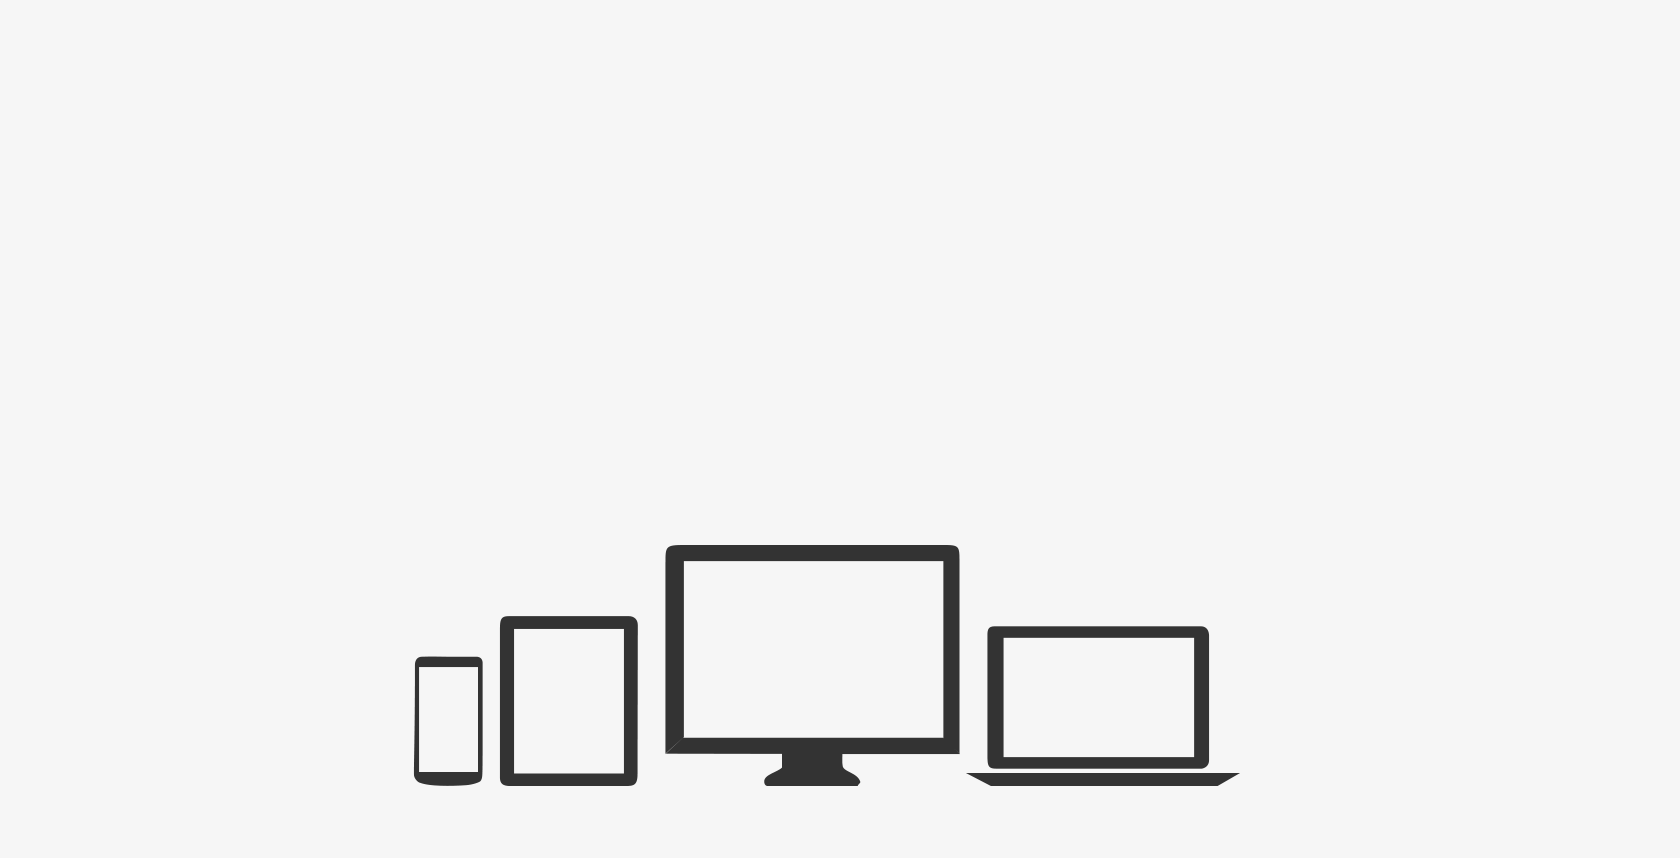
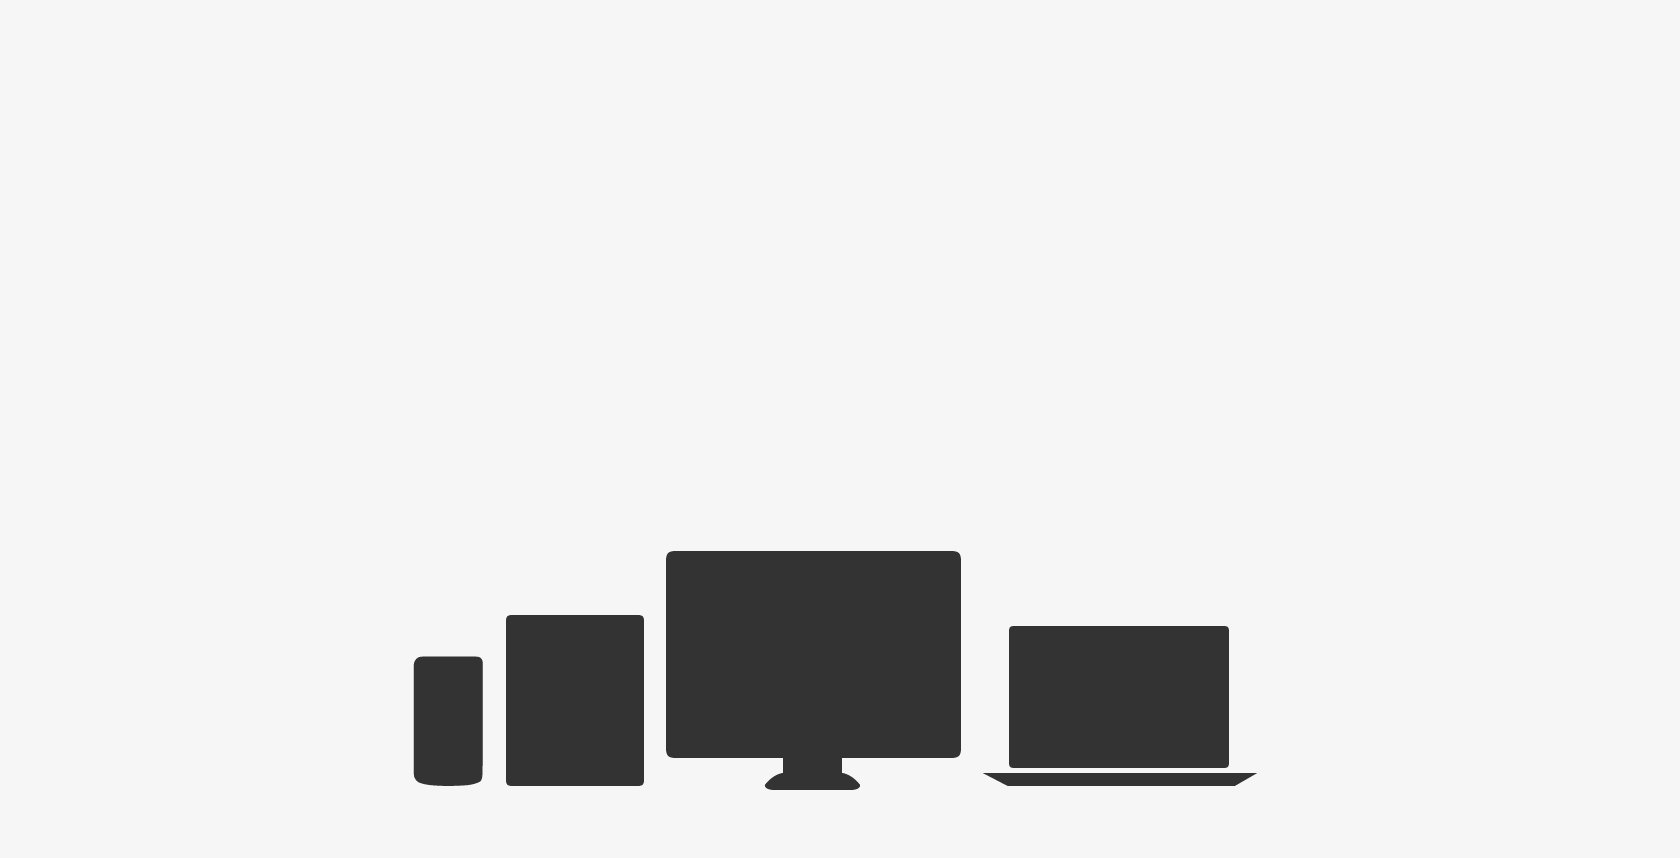
New device-frame  directive

Changed region(s): [[0.2476, 0.6364, 0.7429, 0.9091], [0.4643, 0.9091, 0.4952, 0.9394]]

diff --git a/app/views/home.html b/app/views/home.html
@@ -53,7 +53,39 @@
 
                         <p>   By now, I'm studying Node.js servers and Android native development, with Java and material design, just for fun. ;)</p>
 
-                        <p>   I'm still learning and getting evolved with open source, but, why not to follow me at <a href ng-href="https://github.com/romulobordezani" target="_BLANK" >github</a>? </p>
+                        <p>   I'm still learning and getting evolved with open source, but, why not to follow me at <a href ng-href="https://github.com/romulobordezani" target="_BLANK" ><img src="images/socials/ico-github.svg" style="width:15px;height:15px;vertical-align: middle;" /> github</a>? </p>
+
+                        <p>
+
+                            <h3 class="md-title">Skills:</h3>
+
+                            <div layout >
+                                <div flex="10" layout layout-align="center center"><span class="md-body-1">Java Script</span></div>
+                                <md-slider flex class="md-warn" ng-disabled="true" md-discrete ng-model="js" ng-init="js=9"  max="10" aria-label="Java Script" ></md-slider>
+                            </div>
+
+                            <div layout >
+                                <div flex="10" layout layout-align="center center"><span class="md-body-1">HTML5</span></div>
+                                <md-slider flex class="md-warn" ng-disabled="true" md-discrete ng-model="html5" ng-init="html5=9"  max="10" aria-label="html5" ></md-slider>
+                            </div>
+
+                            <div layout >
+                                <div flex="10" layout layout-align="center center"><span class="md-body-1">CSS3</span></div>
+                                <md-slider flex class="md-warn" ng-disabled="true" md-discrete ng-model="css3" ng-init="css3=9"  max="10" aria-label="css3" ></md-slider>
+                            </div>
+
+                            <div layout >
+                                <div flex="10" layout layout-align="center center"><span class="md-body-1">Mongo</span></div>
+                                <md-slider flex class="md-warn" ng-disabled="true" md-discrete ng-model="mongo" ng-init="mongo=7"  max="10" aria-label="Mongo" ></md-slider>
+                            </div>
+
+                            <div layout >
+                                <div flex="10" layout layout-align="center center"><span class="md-body-1">PHP</span></div>
+                                <md-slider flex class="md-warn" ng-disabled="true" md-discrete ng-model="php" ng-init="php=5"  max="10" aria-label="PHP" ></md-slider>
+                            </div>
+
+
+                        </p>
 
                     </md-content>
                 </md-tab>
@@ -241,13 +273,17 @@
 
         <div class="content-splitter" hide-gt-md style="margin-top: 43px;" ></div>
 
-        <div layout="column" layout-sm="row" layout-md="row" flex="60" flex-sm="100" flex-md="100" >
+        <div layout="column" layout-sm="row" layout-md="row" flex="50" flex-sm="100" flex-md="100" >
 
             <div id="third-featured-item" layout="row" flex layout-wrap layout-fill class="md-padding" clickable clickable-url="#/contact" >
 
                 <div layout="column" layout-sm="row" layout-align="center start" layout-align-sm="center center" layout-align-md="center center" flex="20" flex-sm="100" flex-md="33" >
                     <img src="images/home/girl.jpg" class="md-avatar" />
                 </div>
+
+
+                <div flex="5"></div>
+
 
                 <div layout="column" layout-sm="row" layout-align="center start" layout-wrap class="md-padding" flex="50" flex-sm="100"  flex-md="66" >
                     <h4 class="md-title" layout-fill >Mobile first  matters </h4>

diff --git a/app/views/work/2015/03.html b/app/views/work/2015/03.html
@@ -24,68 +24,17 @@
 
             <div class="work-spacer" ></div>
 
-            <div layout="row" layout-fill layout-wrap >
+            <div layout="row" layout-wrap layout-fill layout-align="center end" >
 
-                <md-card class="noselect no-pointer"  layout="column" flex >
-                    <img src="../../../images/work/2015/1/sac-bol-1.png" class="md-card-image md-whiteframe-z1 " >
-                    <div class="md-actions" layout="row" layout-align="end center">
-                        <md-button class="md-warn md-default-theme"  ng-href="https://sac.bol.uol.com.br/" target="_blank" >Go to</md-button>
-                    </div>
-                </md-card>
+                <device-frame href="testehttps" size="lg" src="../../../images/work/2015/1/sac-bol-3.png" ></device-frame>
 
-                <md-card class="noselect no-pointer"  layout="column" flex >
-                    <img src="../../../images/work/2015/1/sac-bol-2.png" class="md-card-image md-whiteframe-z1 " >
-                    <div class="md-actions" layout="row" layout-align="end center">
-                        <md-button class="md-warn md-default-theme"  ng-href="https://sac.bol.uol.com.br/#/login" target="_blank" >Go to</md-button>
-                    </div>
-                </md-card>
+                <device-frame href="https://sac.uol.com.br" size="gt-lg" src="../../../images/work/2015/1/sac-bol-2.png"  ></device-frame>
 
-                <md-card class="noselect no-pointer"  layout="column" flex >
-                    <img src="../../../images/work/2015/1/sac-bol-3.png" class="md-card-image md-whiteframe-z1 " >
-                    <div class="md-actions" layout="row" layout-align="end center">
-                        <md-button class="md-warn md-default-theme"  ng-href="https://sac.bol.uol.com.br/#/recuperarsenha" target="_blank" >Go to</md-button>
-                    </div>
-                </md-card>
+                <device-frame href="testehttps" size="md" src="../../../images/work/2015/1/sac-bol-2.png"  ></device-frame>
+
+                <device-frame href="testehttps" size="sm" src="../../../images/work/2015/1/sac-bol-1.png"  ></device-frame>
 
             </div>
-
-
-            <div>
-                <div style="background: url('images/uis/device-lg.svg') no-repeat; width: 350px; height: 350px; " >
-                    <div style="background-color: #689F38; position: relative; width: 191px; height: 121px; left: 37px; top: 11px;">
-
-                    </div>
-                </div>
-            </div>
-
-
-            <div>
-                <div style="background: url('images/uis/device-gt-lg.svg') no-repeat; width: 350px; height: 350px; " >
-                    <div style="background-color: #689F38; position: relative; width: 191px; height: 121px; left: 37px; top: 11px;">
-
-                    </div>
-                </div>
-            </div>
-
-
-            <div>
-                <div style="background: url('images/uis/device-sm.svg') no-repeat; width: 350px; height: 350px; " >
-                    <div style="background-color: #689F38; position: relative; width: 191px; height: 121px; left: 37px; top: 11px;">
-
-                    </div>
-                </div>
-            </div>
-
-
-            <div>
-                <div style="background: url('images/uis/device-md.svg') no-repeat; width: 350px; height: 350px; " >
-                    <div style="background-color: #689F38; position: relative; width: 191px; height: 121px; left: 37px; top: 11px;">
-
-                    </div>
-                </div>
-            </div>
-
-
 
         </div>
 

diff --git a/app/styles/directives/device-frame.directive.scss b/app/styles/directives/device-frame.directive.scss
@@ -1,0 +1,166 @@
+@import '../libs/colors.scss';
+@import '../libs/measures.scss';
+
+.device-frame{
+
+    height: 300px;
+    margin: 0 33px;
+
+    a{
+        position: relative;
+        display: block;
+
+        &:before{
+
+            content : ' ';
+            position: absolute;
+            top: 0px;
+            left: 0px;
+            z-index: 2000;
+            background-image: url('../images/uis/ic_launch_24px.svg');
+            background-size: 46px 46px;
+            background-repeat : no-repeat;
+            background-position: center;
+            background-color: #333333;
+            display: none;
+            height: 121px;
+            width: 200px;
+            opacity: 1;
+
+        }
+
+        &:hover{
+
+            &:before{
+                display: block;
+                opacity: 0.7;
+            }
+
+        }
+
+        img {
+            position: absolute;
+        }
+
+    }
+
+
+    .df-sm{
+
+        background: transparent url('../images/uis/device-sm.svg') no-repeat top center ;
+        background-size: contain;
+        width: 69px;
+        height: 129px;
+
+
+        a.df-sm-screen{
+
+            width: 60px;
+            height: 107px;
+            margin: 7px auto 0;
+
+            img{
+                position: absolute;
+                max-width: 60px;
+                height: 107px;
+                clip: rect(0px, 60px, 107px, 0px);
+            }
+
+            &:before{
+                width: 60px;
+                height: 107px;
+            }
+
+        }
+
+    }
+
+    .df-md{
+
+        background: transparent url('../images/uis/device-md.svg') no-repeat top center ;
+        background-size: contain;
+        width: 138px;
+        height: 171px;
+
+        a.df-md-screen{
+
+            width: 120px;
+            height: 251px;
+            margin: 10px auto 0;
+
+            img{
+                position: absolute;
+                width: auto;
+                height: 250px;
+                clip: rect(0px, 120px, 150px, 0px);
+            }
+
+
+            &:before{
+                width: 120px;
+                height: 150px;
+            }
+
+        }
+
+    }
+
+    .df-lg{
+
+        background: transparent url('../images/uis/device-lg.svg') no-repeat top center ;
+        background-size: contain;
+        width: 274px;
+        height: 160px;
+
+
+        a.df-lg-screen{
+
+            width: 200px;
+            height: 121px;
+            margin: 15px auto 0;
+
+            img{
+                position: absolute;
+                max-width: 200px;
+                height: auto;
+                clip: rect(0px, 200px, 120px, 0px);
+            }
+
+        }
+
+    }
+
+
+    .df-gt-lg{
+
+        background: transparent url('../images/uis/device-gt-lg.svg') no-repeat top center ;
+        background-size: contain;
+        width: 295px;
+        height: 239px;
+
+        a.df-gt-lg-screen{
+
+            width: 280px;
+            height: 180px;
+            margin: 15px auto 0;
+
+            img{
+                position: absolute;
+                width: 280px;
+                height: 220px;
+                clip: rect(0px, 280px, 180px, 0px);
+            }
+
+
+            &:before{
+                width: 280px;
+                height: 180px;
+            }
+
+        }
+
+    }
+
+
+
+}

diff --git a/app/scripts/directives/device-frame.directive.js b/app/scripts/directives/device-frame.directive.js
@@ -1,0 +1,26 @@
+'use strict';
+angular.module('deviceFrame', []).directive('deviceFrame',function() {
+        return {
+
+            restrict: 'E',
+            transclude: true,
+            templateUrl : 'views/templates/deviceFrame.html',
+
+            scope: {
+                href: '@',
+                size : '@',
+                src : '@'
+            },
+
+            link: function(scope, element, attrs) {
+
+                scope.href = attrs.href;
+                scope.size = attrs.size;
+                scope.src  = attrs.src;
+
+            }
+
+        };
+
+     }
+);

diff --git a/app/index.html b/app/index.html
@@ -246,6 +246,7 @@
 
             <script src="scripts/directives/parallax.directive.js"></script>
             <script src="scripts/directives/clickable.directive.js"></script>
+            <script src="scripts/directives/device-frame.directive.js"></script>
 
 
             <script src="scripts/extendedMaterial/tabs.js"></script>

diff --git a/app/scripts/app.js b/app/scripts/app.js
@@ -11,7 +11,8 @@ angular
         'ngMaterial',
         'ngMessages',
         'mdParallax',
-        'addClassOnClick'
+        'addClassOnClick',
+        'deviceFrame'
     ])
     .config(
         function ( $routeProvider, $mdThemingProvider ) {

diff --git a/app/views/templates/deviceFrame.html b/app/views/templates/deviceFrame.html
@@ -1,0 +1,7 @@
+<div class="device-frame" layout="column" layout-align="end center" >
+    <div class="df-{{size}}"  >
+        <a href class="df-{{size}}-screen" ng-href="{{href}}" >
+            <img src="{{src}}">
+        </a>
+    </div>
+</div>

diff --git a/app/styles/main.scss b/app/styles/main.scss
@@ -374,5 +374,6 @@ body {
 }
 
 @import 'libs/materialExtensions.scss';
-@import 'libs/clickable.scss';
+@import 'directives/clickable.directive.scss';
+@import 'directives/device-frame.directive.scss';
 

diff --git a/app/styles/directives/clickable.directive.scss b/app/styles/directives/clickable.directive.scss
@@ -1,7 +1,7 @@
 
 $use-pulse : true;
 $use-tada : true;
-@import "../bower_components/animate-sass/animate";
+@import "../../../bower_components/animate-sass/_animate";
 
 .clickable{
 

diff --git a/app/styles/libs/materialExtensions.scss b/app/styles/libs/materialExtensions.scss
@@ -1,5 +1,5 @@
-@import '../libs/colors.scss';
-@import '../libs/measures.scss';
+@import 'colors.scss';
+@import 'measures.scss';
 
 
 :focus {outline:none;}
